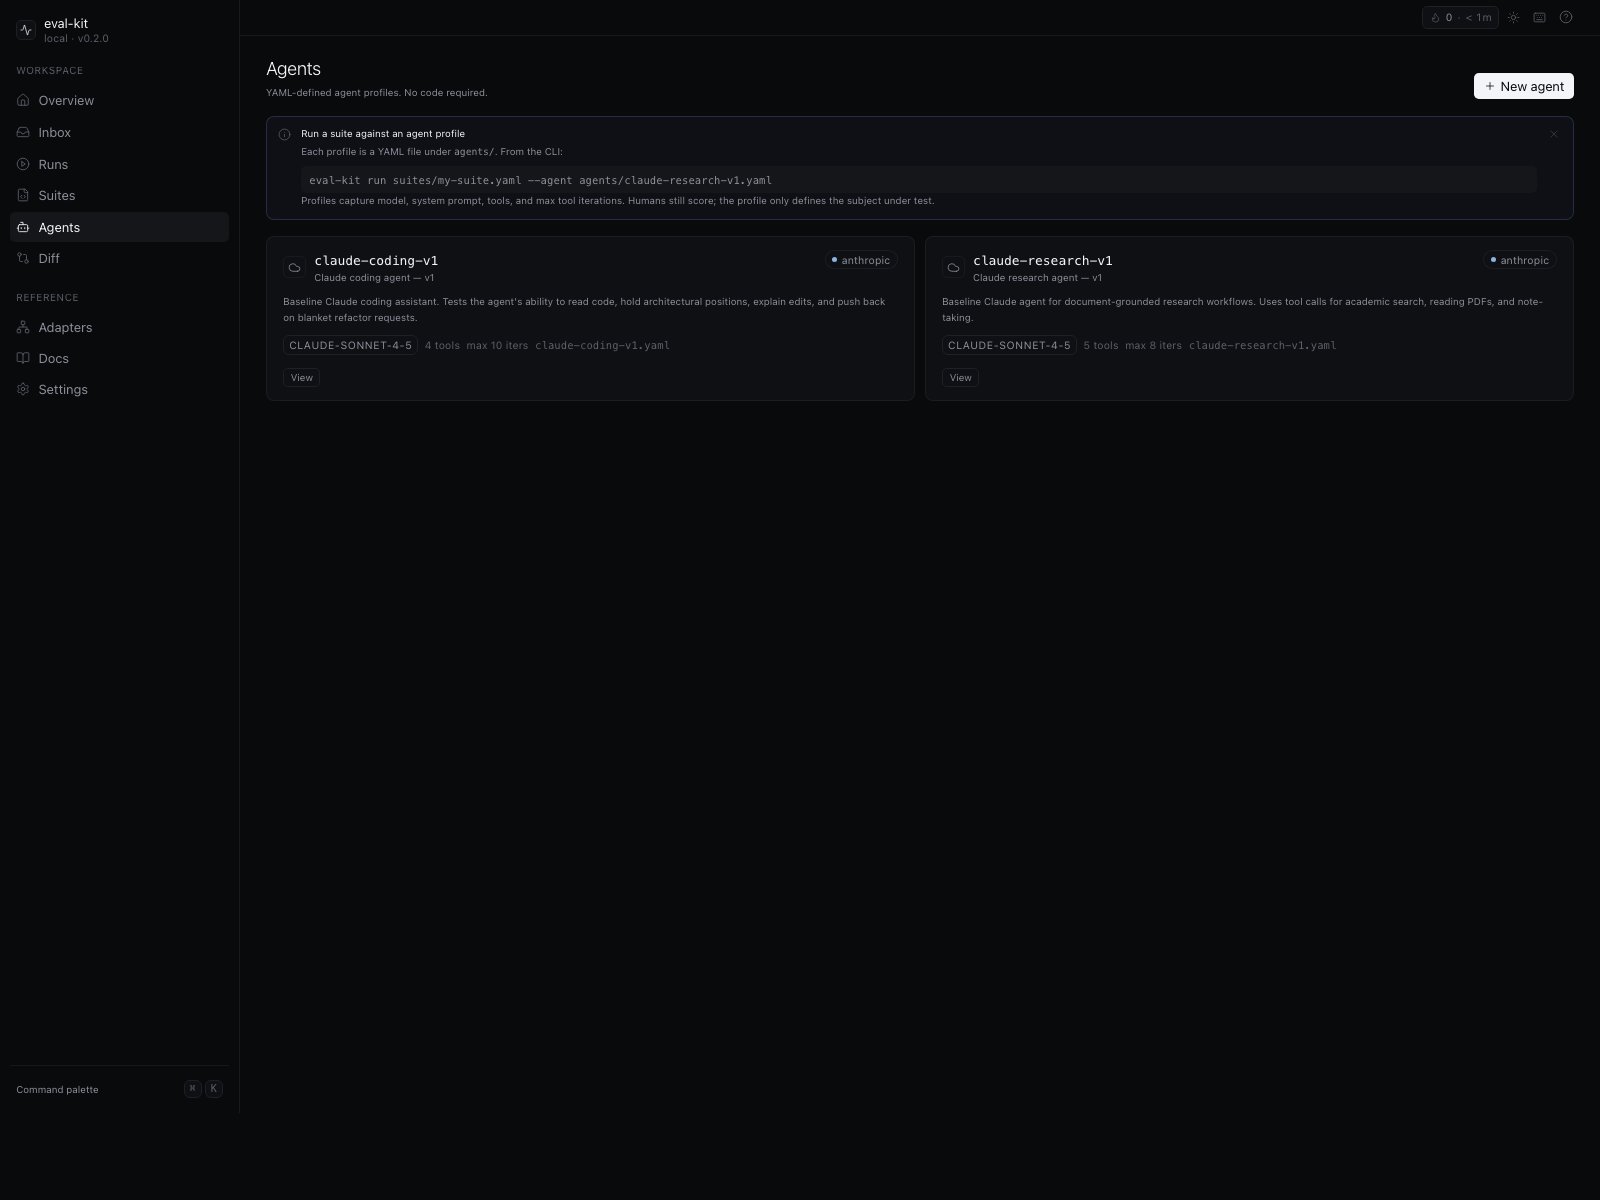
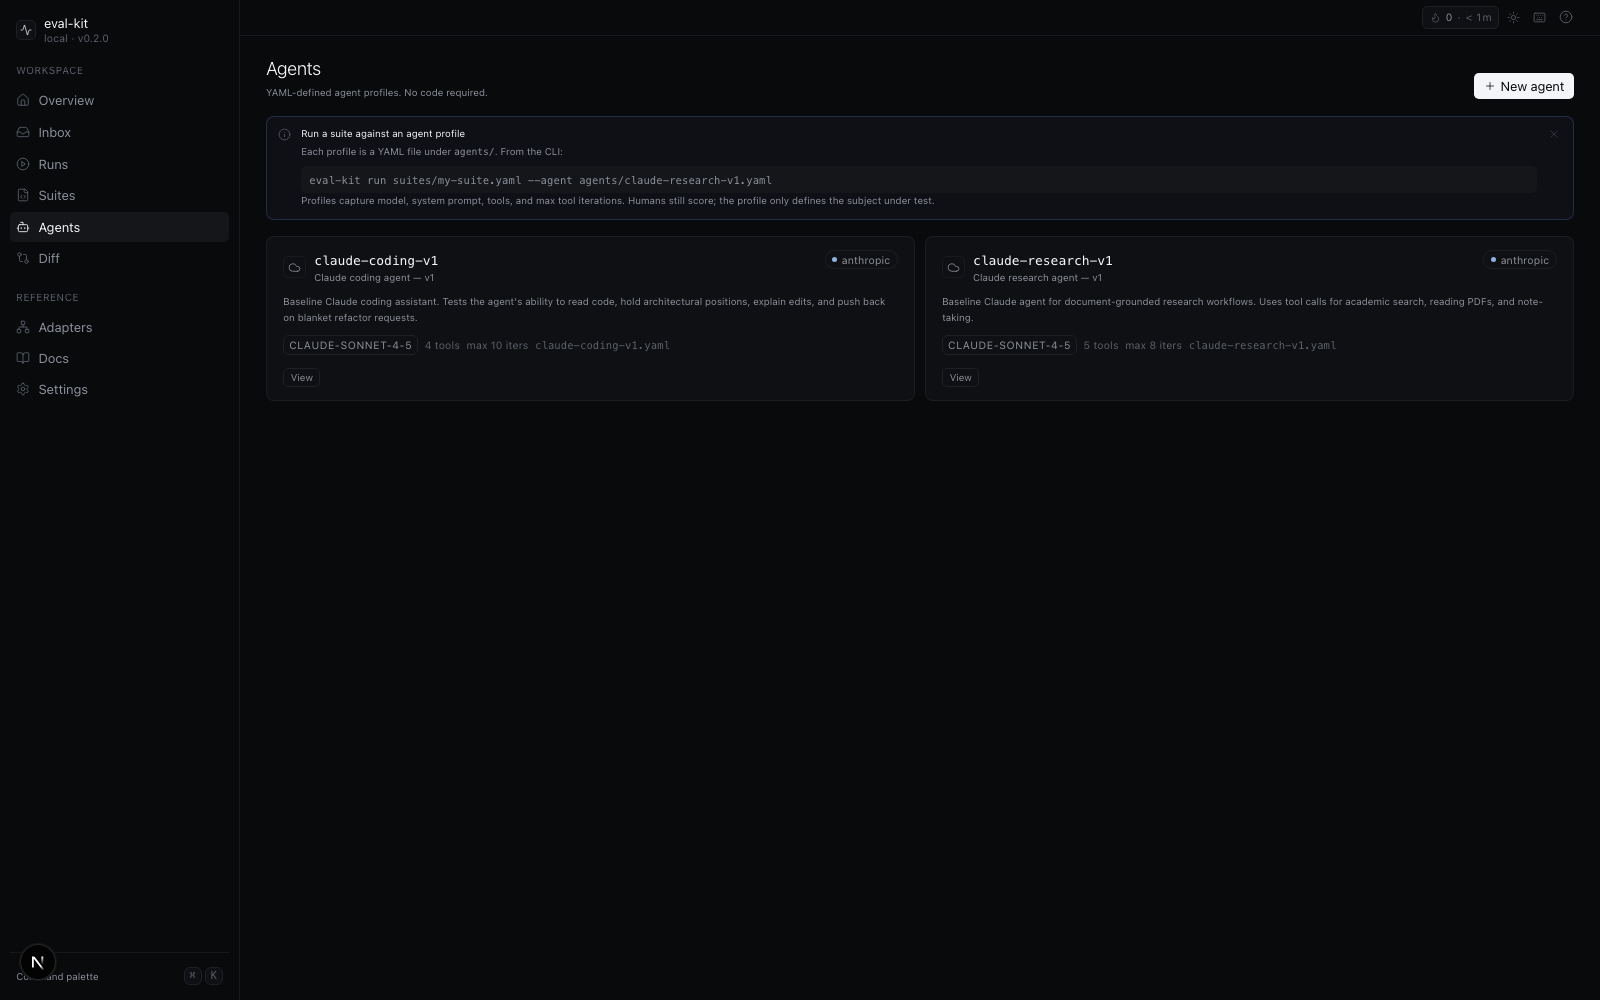
docs(images): refresh dashboard screenshots + add capture script
Six dashboard screenshots covering the 6 most-asked surfaces
(Overview, Inbox, Review, Runs, Diff, Agents) — Diff specifically
captures the canonical pristine-vs-degraded scenario showing 10
regressions across superdeterminism + grammar-audit + future-papers.

scripts/capture-screenshots.mjs uses Chrome's headless screenshot
mode (no puppeteer dep). Iterates the 5 routes the README references,
writes 1600x1000 PNGs to docs/images/. Override CHROME_PATH or
DASHBOARD_URL to point at a different Chrome binary or dev server.

examples/run-against-anthropic.ts is the cloud-adapter counterpart
to run-against-mock.ts: loads the research-agent-v1 seed suite,
creates an Anthropic adapter, runs end-to-end, writes the run
artifact, and prints a summary line. Cost-honest preamble (~$1-2
per run with default settings).

diff --git a/examples/run-against-anthropic.ts b/examples/run-against-anthropic.ts
@@ -1,0 +1,87 @@
+/**
+ * End-to-end example: run a real eval suite against the Anthropic adapter.
+ *
+ * Usage:
+ *   export ANTHROPIC_API_KEY=sk-ant-...
+ *   pnpm tsx examples/run-against-anthropic.ts
+ *
+ * What it does:
+ *   1. Loads the `research-agent-v1` seed suite from @eval-kit/seed-suite
+ *   2. Creates an Anthropic adapter (claude-sonnet-4-5, tool-use loop, prompt caching)
+ *   3. Runs the suite end-to-end — the adapter calls Claude per step, with
+ *      simulated tool results (the eval is measuring tool *selection*, not
+ *      tool execution; real tool calls are fed mocked results so the
+ *      step's tool_match auto-score is well-defined).
+ *   4. Auto-scores every step at trace time (tier-1: tool_match + distraction_caught)
+ *   5. Writes runs/<date>-anthropic.json so you can open it in the dashboard
+ *      (`pnpm --filter @eval-kit/dashboard dev`) and human-score the steps.
+ *
+ * Cost: this runs the full ~10-task seed suite end-to-end against
+ * claude-sonnet-4-5. Expect ~$1-2 of API spend per run with default settings.
+ * Lower the cost by using `--filter` on a subset of tasks, or by switching
+ * to claude-haiku via opts.model.
+ */
+
+import { mkdir, writeFile } from "node:fs/promises";
+import { resolve } from "node:path";
+import { createAnthropicAdapter, runSuite } from "@eval-kit/core";
+import { loadSuite } from "@eval-kit/core/loader";
+import { researchAgentV1Path } from "@eval-kit/seed-suite";
+
+async function main() {
+  if (!process.env.ANTHROPIC_API_KEY) {
+    console.error(
+      "ANTHROPIC_API_KEY is not set. Export it first:\n" +
+        "  export ANTHROPIC_API_KEY=sk-ant-...",
+    );
+    process.exit(1);
+  }
+
+  const suite = await loadSuite(researchAgentV1Path);
+  const adapter = createAnthropicAdapter({
+    model: "claude-sonnet-4-5",
+    // Anthropic adapter applies prompt caching on system + tool block by default.
+    // Override system prompt or maxToolIterations here if needed.
+  });
+
+  console.log(
+    `Running ${suite.suite.id}@${suite.suite.version} (${suite.suite.tasks.length} tasks) against ${adapter.name}/${adapter.model}…`,
+  );
+
+  const run = await runSuite(suite, { adapter });
+
+  const outDir = resolve(process.cwd(), "runs");
+  await mkdir(outDir, { recursive: true });
+  const outPath = resolve(
+    outDir,
+    `${run.started_at.slice(0, 10)}-anthropic.json`,
+  );
+  await writeFile(outPath, JSON.stringify(run, null, 2));
+
+  // Print a brief summary so you can see what happened without opening the JSON.
+  const totalSteps = run.task_results.reduce(
+    (n, t) => n + t.step_results.length,
+    0,
+  );
+  const toolMatchPass = run.task_results.reduce(
+    (n, t) =>
+      n +
+      t.step_results.filter((s) => s.auto_score?.tool_match === true).length,
+    0,
+  );
+
+  console.log(`\nDone — wrote ${outPath}`);
+  console.log(
+    `Tier-1 auto-score: ${toolMatchPass}/${totalSteps} steps tool_match=true`,
+  );
+  console.log(
+    "Open the dashboard to human-score the run:\n" +
+      "  pnpm --filter @eval-kit/dashboard dev\n" +
+      "  → http://localhost:3000",
+  );
+}
+
+main().catch((err) => {
+  console.error(err);
+  process.exit(1);
+});